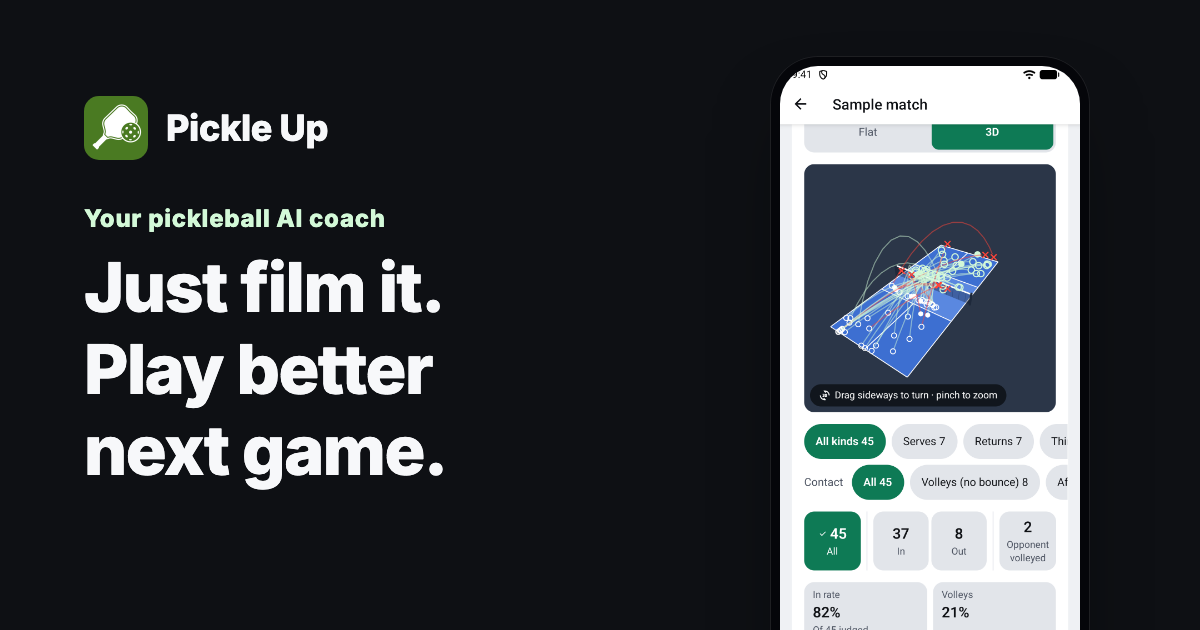
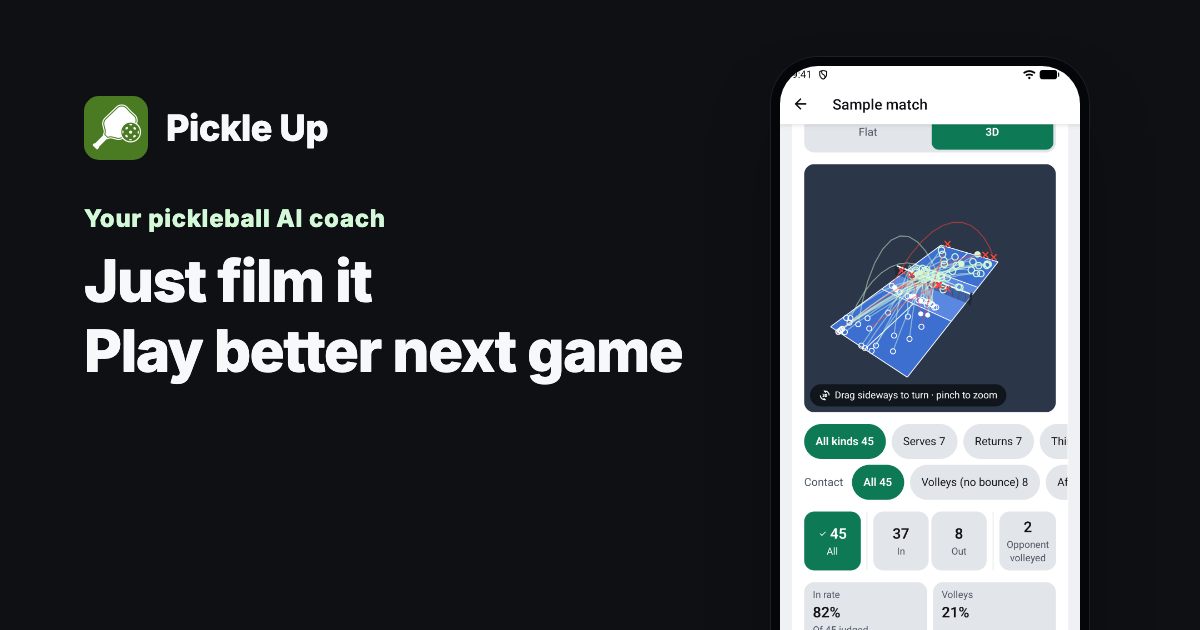
Pickle Up のページの見出しを句読点なしの2行「撮るだけで／次の試合が変わる」にし、どの幅でも2行に収まるよう文字の大きさを列の幅から決める。見出しの下の文を、機能の説明から「どのショットで点を落としているかが数字で分かり、次の練習で直すことがはっきりする」という価値の説明に書き直す。共有用の画像も同じ見出しにする
Claude-Session: https://claude.ai/code/session_01RcorTwHLSLi3TqpLhpw8hm

Changed region(s): [[0.0617, 0.3921, 0.5858, 0.7841]]

diff --git a/ja/apps/pickle-up/index.html b/ja/apps/pickle-up/index.html
@@ -4,7 +4,7 @@
 <meta charset="UTF-8">
 <meta name="viewport" content="width=device-width, initial-scale=1.0">
 <script>try { localStorage.setItem('preferredLang', 'ja'); } catch (_) {}</script>
-<title>Pickle Up | 撮るだけで、次の試合が変わるピックルボールのアプリ</title>
+<title>Pickle Up | 撮るだけで次の試合が変わるピックルボールのアプリ</title>
 <meta name="description" content="コートの後ろにスマホを置いて試合をすると、スコアを数えて読み上げ、あなたが打った球を1本ずつコートに描きます。ドロップは入っているのにボレーはネット、といった傾向が数字で分かり、AI コーチが次に練習することを教えます。">
 <meta name="theme-color" content="#0E1014">
 <link rel="icon" href="/images/apps/pickle-up/icon-64.png" sizes="64x64" type="image/png">
@@ -15,7 +15,7 @@
 <link rel="alternate" hreflang="x-default" href="/en/apps/pickle-up/">
 <meta property="og:type" content="website">
 <meta property="og:site_name" content="Pickle Up">
-<meta property="og:title" content="Pickle Up | 撮るだけで、次の試合が変わるピックルボールのアプリ">
+<meta property="og:title" content="Pickle Up | 撮るだけで次の試合が変わるピックルボールのアプリ">
 <meta property="og:description" content="コートの後ろにスマホを置いて試合をすると、スコアを数えて読み上げ、あなたが打った球を1本ずつコートに描きます。ドロップは入っているのにボレーはネット、といった傾向が数字で分かり、AI コーチが次に練習することを教えます。">
 <meta property="og:url" content="https://quests.it.com/ja/apps/pickle-up/">
 <meta property="og:locale" content="ja_JP">
@@ -27,7 +27,7 @@
 <link rel="preconnect" href="https://fonts.gstatic.com" crossorigin>
 <link href="https://fonts.googleapis.com/css2?family=Inter:wght@400;500;600;700;800&family=Noto+Sans+JP:wght@400;500;700;800&display=swap" rel="stylesheet">
 <link rel="stylesheet" href="https://cdnjs.cloudflare.com/ajax/libs/remixicon/4.6.0/remixicon.min.css">
-<link rel="stylesheet" href="/assets/css/apps/pickle-up.css?v=7">
+<link rel="stylesheet" href="/assets/css/apps/pickle-up.css?v=8">
 </head>
 <body class="page-home">
 <header class="app-header">
@@ -62,8 +62,8 @@
 <svg class="court-lines" viewBox="0 0 1200 700" preserveAspectRatio="xMidYMid slice" aria-hidden="true" focusable="false"><path d="M354 565 L682 783 M827 217 L1070 288 M354 565 L827 217 M682 783 L1070 288 M573 403 L871 541 M715 299 L985 397 M500 662 L709 466 M840 344 L941 250" fill="none" stroke="currentColor" stroke-width="2"/><path d="M633 303 L957 426" fill="none" stroke="currentColor" stroke-width="4" stroke-linecap="round"/></svg>
 <div class="wrap hero-grid">
 <div class="hero-copy">
-<h1><span class="phrase">撮るだけで、</span><span class="phrase">次の試合が</span><span class="phrase">変わる。</span></h1>
-<p class="lead">スマホをコートの後ろに置いて、いつもどおり試合をしてください。Pickle Up がスコアを数えて読み上げ、あなたが打った球を1本ずつコートに描きます。試合のあとは AI コーチが、次に何を練習すればいいかを教えます。</p>
+<h1><span class="phrase">撮るだけで</span><span class="phrase">次の試合が変わる</span></h1>
+<p class="lead">どのショットで点を落としているかは、プレー中の自分には分かりません。Pickle Up は試合の動画から、ショットの種類ごとに入った割合とミスの傾向を数字で出します。「ボレーが8本中3本ネット」と分かれば、次の練習で直すことがはっきりします。スマホをコートの後ろに置くだけ。スコアも数えて読み上げるので、試合に集中できます。</p>
 <div class="stores stores-hero"><span class="store"><img src="/images/apps/badges/app-store-ja.svg" alt="App Store からダウンロード" width="131" height="48"></span><span class="store"><img src="/images/apps/badges/google-play-ja.png" alt="Google Play で手に入れよう" width="161" height="48"></span></div><p class="stores-note">近日公開</p>
 </div>
 <div class="hero-media">
@@ -158,9 +158,9 @@
 </div>
 </div>
 </footer>
-<script src="/assets/js/app-menu.js?v=7" defer></script>
-<script src="/assets/js/app-lang.js?v=7" defer></script>
+<script src="/assets/js/app-menu.js?v=8" defer></script>
+<script src="/assets/js/app-lang.js?v=8" defer></script>
 <script>document.querySelectorAll('[data-year]').forEach(function (el) { el.textContent = new Date().getFullYear(); });</script>
-<script src="/assets/js/app-carousel.js?v=7" defer></script>
+<script src="/assets/js/app-carousel.js?v=8" defer></script>
 </body>
 </html>

diff --git a/en/apps/pickle-up/index.html b/en/apps/pickle-up/index.html
@@ -27,7 +27,7 @@
 <link rel="preconnect" href="https://fonts.gstatic.com" crossorigin>
 <link href="https://fonts.googleapis.com/css2?family=Inter:wght@400;500;600;700;800&family=Noto+Sans+JP:wght@400;500;700;800&display=swap" rel="stylesheet">
 <link rel="stylesheet" href="https://cdnjs.cloudflare.com/ajax/libs/remixicon/4.6.0/remixicon.min.css">
-<link rel="stylesheet" href="/assets/css/apps/pickle-up.css?v=7">
+<link rel="stylesheet" href="/assets/css/apps/pickle-up.css?v=8">
 </head>
 <body class="page-home">
 <header class="app-header">
@@ -62,8 +62,8 @@
 <svg class="court-lines" viewBox="0 0 1200 700" preserveAspectRatio="xMidYMid slice" aria-hidden="true" focusable="false"><path d="M354 565 L682 783 M827 217 L1070 288 M354 565 L827 217 M682 783 L1070 288 M573 403 L871 541 M715 299 L985 397 M500 662 L709 466 M840 344 L941 250" fill="none" stroke="currentColor" stroke-width="2"/><path d="M633 303 L957 426" fill="none" stroke="currentColor" stroke-width="4" stroke-linecap="round"/></svg>
 <div class="wrap hero-grid">
 <div class="hero-copy">
-<h1><span class="phrase">Just film it.</span><span class="phrase">Play better</span><span class="phrase">next game.</span></h1>
-<p class="lead">Prop your phone behind the court and play as you always do. Pickle Up keeps score and calls it out, then draws each of your shots on the court. After the match, its AI coach tells you what to practise next.</p>
+<h1><span class="phrase">Just film it</span><span class="phrase">Play better next game</span></h1>
+<p class="lead">In the middle of a game, you can’t tell which shots are costing you points. Pickle Up reads your match video and shows, for each kind of shot, how often it goes in and how it misses. Once you know 3 of your 8 volleys went into the net, you know exactly what to practise. Just prop your phone behind the court. It keeps and calls the score too, so you can focus on playing.</p>
 <div class="stores stores-hero"><span class="store"><img src="/images/apps/badges/app-store-en.svg" alt="Download on the App Store" width="144" height="48"></span><span class="store"><img src="/images/apps/badges/google-play-en.png" alt="Get it on Google Play" width="161" height="48"></span></div><p class="stores-note">Coming soon</p>
 </div>
 <div class="hero-media">
@@ -158,9 +158,9 @@
 </div>
 </div>
 </footer>
-<script src="/assets/js/app-menu.js?v=7" defer></script>
-<script src="/assets/js/app-lang.js?v=7" defer></script>
+<script src="/assets/js/app-menu.js?v=8" defer></script>
+<script src="/assets/js/app-lang.js?v=8" defer></script>
 <script>document.querySelectorAll('[data-year]').forEach(function (el) { el.textContent = new Date().getFullYear(); });</script>
-<script src="/assets/js/app-carousel.js?v=7" defer></script>
+<script src="/assets/js/app-carousel.js?v=8" defer></script>
 </body>
 </html>

diff --git a/ja/apps/pickle-up/support/index.html b/ja/apps/pickle-up/support/index.html
@@ -27,7 +27,7 @@
 <link rel="preconnect" href="https://fonts.gstatic.com" crossorigin>
 <link href="https://fonts.googleapis.com/css2?family=Inter:wght@400;500;600;700;800&family=Noto+Sans+JP:wght@400;500;700;800&display=swap" rel="stylesheet">
 <link rel="stylesheet" href="https://cdnjs.cloudflare.com/ajax/libs/remixicon/4.6.0/remixicon.min.css">
-<link rel="stylesheet" href="/assets/css/apps/pickle-up.css?v=7">
+<link rel="stylesheet" href="/assets/css/apps/pickle-up.css?v=8">
 </head>
 <body class="page-doc">
 <header class="app-header">
@@ -78,7 +78,7 @@
 <button type="submit" class="button">メールで送る<i class="ri-mail-send-line" aria-hidden="true"></i></button>
 </form>
 </section>
-<script src="/assets/js/app-contact.js?v=7" defer></script>
+<script src="/assets/js/app-contact.js?v=8" defer></script>
 </div>
 </main>
 <footer class="app-footer">
@@ -111,8 +111,8 @@
 </div>
 </div>
 </footer>
-<script src="/assets/js/app-menu.js?v=7" defer></script>
-<script src="/assets/js/app-lang.js?v=7" defer></script>
+<script src="/assets/js/app-menu.js?v=8" defer></script>
+<script src="/assets/js/app-lang.js?v=8" defer></script>
 <script>document.querySelectorAll('[data-year]').forEach(function (el) { el.textContent = new Date().getFullYear(); });</script>
 </body>
 </html>

diff --git a/en/apps/pickle-up/support/index.html b/en/apps/pickle-up/support/index.html
@@ -27,7 +27,7 @@
 <link rel="preconnect" href="https://fonts.gstatic.com" crossorigin>
 <link href="https://fonts.googleapis.com/css2?family=Inter:wght@400;500;600;700;800&family=Noto+Sans+JP:wght@400;500;700;800&display=swap" rel="stylesheet">
 <link rel="stylesheet" href="https://cdnjs.cloudflare.com/ajax/libs/remixicon/4.6.0/remixicon.min.css">
-<link rel="stylesheet" href="/assets/css/apps/pickle-up.css?v=7">
+<link rel="stylesheet" href="/assets/css/apps/pickle-up.css?v=8">
 </head>
 <body class="page-doc">
 <header class="app-header">
@@ -78,7 +78,7 @@
 <button type="submit" class="button">Continue to email<i class="ri-mail-send-line" aria-hidden="true"></i></button>
 </form>
 </section>
-<script src="/assets/js/app-contact.js?v=7" defer></script>
+<script src="/assets/js/app-contact.js?v=8" defer></script>
 </div>
 </main>
 <footer class="app-footer">
@@ -111,8 +111,8 @@
 </div>
 </div>
 </footer>
-<script src="/assets/js/app-menu.js?v=7" defer></script>
-<script src="/assets/js/app-lang.js?v=7" defer></script>
+<script src="/assets/js/app-menu.js?v=8" defer></script>
+<script src="/assets/js/app-lang.js?v=8" defer></script>
 <script>document.querySelectorAll('[data-year]').forEach(function (el) { el.textContent = new Date().getFullYear(); });</script>
 </body>
 </html>

diff --git a/assets/css/apps/pickle-up.css b/assets/css/apps/pickle-up.css
@@ -77,8 +77,13 @@ img { max-width: 100%; height: auto; }
 .hero .eyebrow, .section-dark .eyebrow, .cta .eyebrow { color: var(--mint); }
 .hero h1 { margin: 0 0 1.25rem; font-size: clamp(2.375rem, 6.4vw, 4.25rem); line-height: 1.12; font-weight: 800; letter-spacing: -.025em; }
 html[lang="ja"] .hero h1 { line-height: 1.22; letter-spacing: 0; }
+/* Two lines at every width: sized from the column, by the longer line (ja 7.9em, en 10.2em wide). */
+.hero-copy { container-type: inline-size; }
+.hero h1 { font-size: min(4.25rem, 12cqi); }
+html[lang="en"] .hero h1 { font-size: min(4rem, 9.4cqi); }
 /* Phrase by phrase: a phrase never breaks inside, so the lines end where the meaning does. */
 .phrase { display: inline-block; }
+.hero h1 .phrase { display: block; }
 .hero .lead { max-width: 34rem; margin: 0 0 2rem; color: var(--on-ink-muted); font-size: 1.0625rem; line-height: 1.85; }
 .hero-media { position: relative; display: flex; justify-content: center; }
 @media (min-width: 900px) {

diff --git a/en/apps/pickle-up/privacy/index.html b/en/apps/pickle-up/privacy/index.html
@@ -27,7 +27,7 @@
 <link rel="preconnect" href="https://fonts.gstatic.com" crossorigin>
 <link href="https://fonts.googleapis.com/css2?family=Inter:wght@400;500;600;700;800&family=Noto+Sans+JP:wght@400;500;700;800&display=swap" rel="stylesheet">
 <link rel="stylesheet" href="https://cdnjs.cloudflare.com/ajax/libs/remixicon/4.6.0/remixicon.min.css">
-<link rel="stylesheet" href="/assets/css/apps/pickle-up.css?v=7">
+<link rel="stylesheet" href="/assets/css/apps/pickle-up.css?v=8">
 </head>
 <body class="page-doc">
 <header class="app-header">
@@ -182,8 +182,8 @@
 </div>
 </div>
 </footer>
-<script src="/assets/js/app-menu.js?v=7" defer></script>
-<script src="/assets/js/app-lang.js?v=7" defer></script>
+<script src="/assets/js/app-menu.js?v=8" defer></script>
+<script src="/assets/js/app-lang.js?v=8" defer></script>
 <script>document.querySelectorAll('[data-year]').forEach(function (el) { el.textContent = new Date().getFullYear(); });</script>
 </body>
 </html>

diff --git a/ja/apps/pickle-up/privacy/index.html b/ja/apps/pickle-up/privacy/index.html
@@ -27,7 +27,7 @@
 <link rel="preconnect" href="https://fonts.gstatic.com" crossorigin>
 <link href="https://fonts.googleapis.com/css2?family=Inter:wght@400;500;600;700;800&family=Noto+Sans+JP:wght@400;500;700;800&display=swap" rel="stylesheet">
 <link rel="stylesheet" href="https://cdnjs.cloudflare.com/ajax/libs/remixicon/4.6.0/remixicon.min.css">
-<link rel="stylesheet" href="/assets/css/apps/pickle-up.css?v=7">
+<link rel="stylesheet" href="/assets/css/apps/pickle-up.css?v=8">
 </head>
 <body class="page-doc">
 <header class="app-header">
@@ -182,8 +182,8 @@
 </div>
 </div>
 </footer>
-<script src="/assets/js/app-menu.js?v=7" defer></script>
-<script src="/assets/js/app-lang.js?v=7" defer></script>
+<script src="/assets/js/app-menu.js?v=8" defer></script>
+<script src="/assets/js/app-lang.js?v=8" defer></script>
 <script>document.querySelectorAll('[data-year]').forEach(function (el) { el.textContent = new Date().getFullYear(); });</script>
 </body>
 </html>

diff --git a/scripts/app_pages/pickle_up.py b/scripts/app_pages/pickle_up.py
@@ -22,7 +22,7 @@ CONTACT_TOPICS = ('bug', 'howto', 'plan', 'account', 'idea', 'other')
 
 JA = {
     'lang': 'ja',
-    'title': 'Pickle Up | 撮るだけで、次の試合が変わるピックルボールのアプリ',
+    'title': 'Pickle Up | 撮るだけで次の試合が変わるピックルボールのアプリ',
     'description': 'コートの後ろにスマホを置いて試合をすると、スコアを数えて読み上げ、あなたが打った球を1本ずつコートに描きます。ドロップは入っているのにボレーはネット、といった傾向が数字で分かり、AI コーチが次に練習することを教えます。',
     'nav': {'features': '機能', 'how': '使い方', 'privacy': 'プライバシー', 'faq': 'よくある質問', 'support': 'サポート', 'download': 'ダウンロード', 'menu': 'メニュー', 'menuOpen': 'メニューを開く', 'menuClose': 'メニューを閉じる'},
     'langSwitch': '言語を切り替える',
@@ -30,8 +30,8 @@ JA = {
     'storeAlt': {'appStore': 'App Store からダウンロード', 'googlePlay': 'Google Play で手に入れよう'},
     'carousel': {'prev': '前の画面', 'next': '次の画面', 'slide': '{n}枚目'},
     'hero': {
-        'title': ['撮るだけで、', '次の試合が', '変わる。'],
-        'lead': 'スマホをコートの後ろに置いて、いつもどおり試合をしてください。Pickle Up がスコアを数えて読み上げ、あなたが打った球を1本ずつコートに描きます。試合のあとは AI コーチが、次に何を練習すればいいかを教えます。',
+        'title': ['撮るだけで', '次の試合が変わる'],
+        'lead': 'どのショットで点を落としているかは、プレー中の自分には分かりません。Pickle Up は試合の動画から、ショットの種類ごとに入った割合とミスの傾向を数字で出します。「ボレーが8本中3本ネット」と分かれば、次の練習で直すことがはっきりします。スマホをコートの後ろに置くだけ。スコアも数えて読み上げるので、試合に集中できます。',
         'screen': '3d-all',
         'screenAlt': 'サンプルの試合の画面。45本の打球を立体のコートに描き、イン率82%、ネットからの高さの中央値 +19cm を表示している',
     },
@@ -162,8 +162,8 @@ EN = {
     'storeAlt': {'appStore': 'Download on the App Store', 'googlePlay': 'Get it on Google Play'},
     'carousel': {'prev': 'Previous screen', 'next': 'Next screen', 'slide': 'Screen {n}'},
     'hero': {
-        'title': ['Just film it.', 'Play better', 'next game.'],
-        'lead': 'Prop your phone behind the court and play as you always do. Pickle Up keeps score and calls it out, then draws each of your shots on the court. After the match, its AI coach tells you what to practise next.',
+        'title': ['Just film it', 'Play better next game'],
+        'lead': 'In the middle of a game, you can’t tell which shots are costing you points. Pickle Up reads your match video and shows, for each kind of shot, how often it goes in and how it misses. Once you know 3 of your 8 volleys went into the net, you know exactly what to practise. Just prop your phone behind the court. It keeps and calls the score too, so you can focus on playing.',
         'screen': '3d-all',
         'screenAlt': 'The sample match: 45 shots drawn on a 3D court, with an 82% in rate and a median height over the net of +19 cm',
     },

diff --git a/scripts/app_pages/build.py b/scripts/app_pages/build.py
@@ -16,7 +16,7 @@ LANGS = ('ja', 'en')
 OTHER = {'ja': 'en', 'en': 'ja'}
 LANG_LABEL = {'ja': '日本語', 'en': 'English'}
 OG_LOCALE = {'ja': 'ja_JP', 'en': 'en_US'}
-CSS_VERSION = 7
+CSS_VERSION = 8
 
 
 def read(path):
